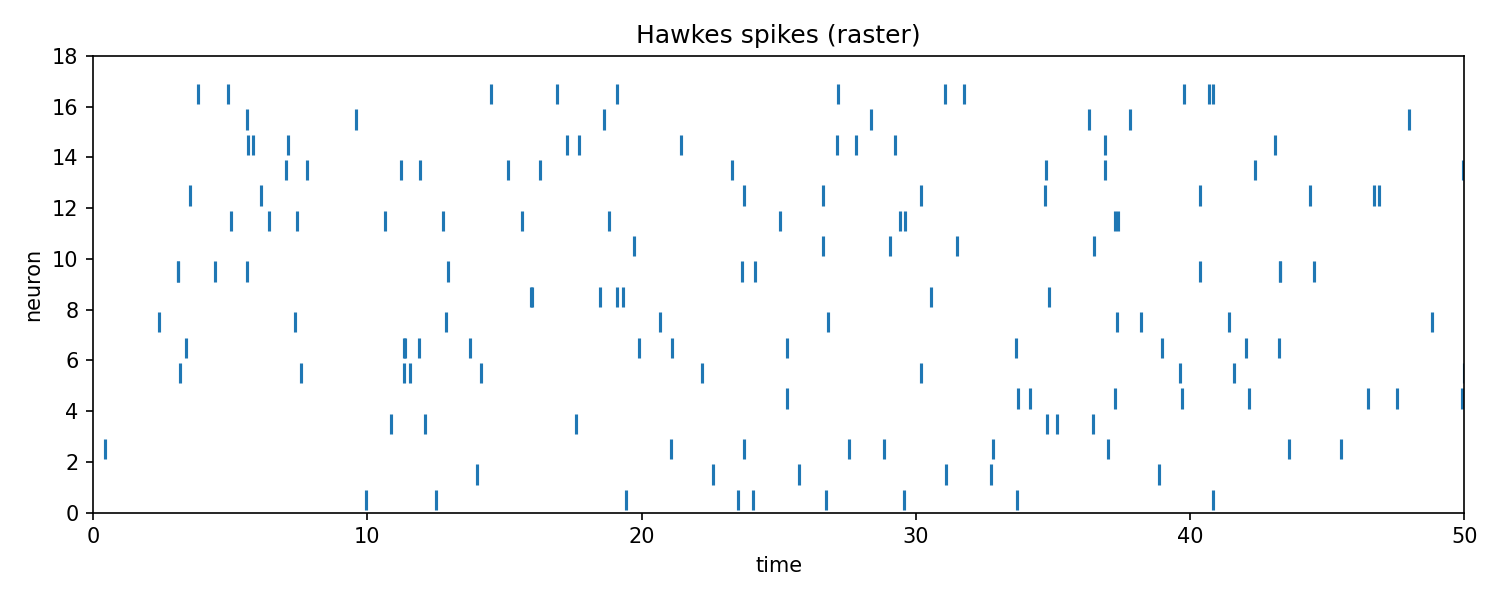
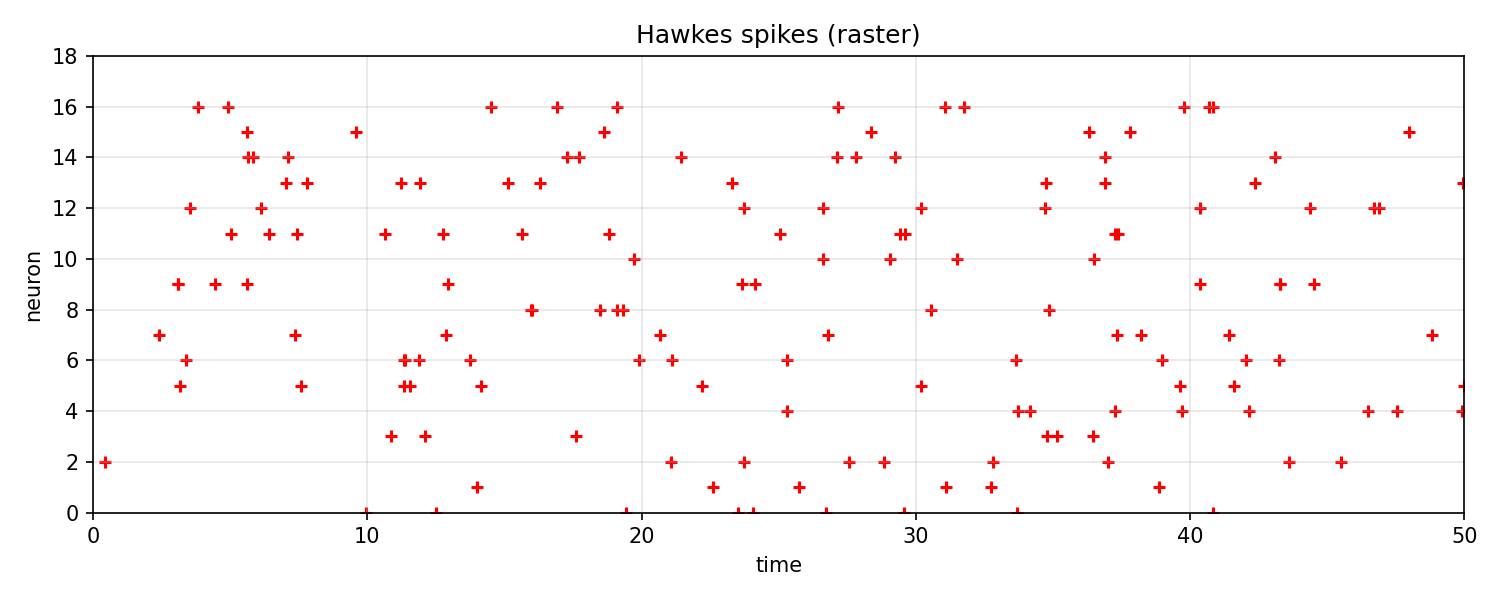
estimate synthetic data

diff --git a/plots.py b/plots.py
@@ -1,7 +1,7 @@
-
 import numpy as np
 import matplotlib.pyplot as plt
 from estimation import drift_model, sigma_model
+
 
 def plot_hawkes_raster(times, T, path):
     M = len(times)
@@ -9,50 +9,72 @@ def plot_hawkes_raster(times, T, path):
     for i, ti in enumerate(times):
         if len(ti) == 0:
             continue
-        plt.vlines(ti, i+0.1, i+0.9)
-    plt.ylim(0, M+1)
+
+        plt.scatter(ti, np.full(len(ti), i), marker="+", color="red")
+    plt.ylim(0, M + 1)
     plt.xlim(0, T)
     plt.xlabel("time")
+    plt.grid(alpha=0.3)
     plt.ylabel("neuron")
     plt.title("Hawkes spikes (raster)")
     plt.tight_layout()
     plt.savefig(path, dpi=150)
     plt.close()
 
+
 def plot_X(ts, X_true, X_hat, path):
     plt.figure(figsize=(10, 4))
-    plt.plot(ts, X_true, label="X(t) true")
-    plt.plot(ts, X_hat, label="X(t) reconstructed (estimated)", alpha=0.8)
+    plt.plot(ts, X_true, label="X(t) true", c="red")
+    plt.plot(ts, X_hat, label="X(t) reconstructed (estimated)", c="blue")
     plt.xlabel("time")
     plt.ylabel("X")
     plt.title("Jump-diffusion path: truth vs reconstructed")
+    plt.grid(alpha=0.3)
     plt.legend()
     plt.tight_layout()
     plt.savefig(path, dpi=150)
     plt.close()
 
-def plot_functions(drift_true_fn, sigma_true_fn, drift_theta, sigma_phi, xgrid, out_prefix):
+
+def plot_functions(
+    drift_true_fn, sigma_true_fn, drift_theta, sigma_phi, xgrid, out_prefix
+):
     plt.figure(figsize=(6, 4))
-    plt.plot(xgrid, drift_true_fn(xgrid), label="f (drift) true")
-    plt.plot(xgrid, drift_model(xgrid, drift_theta), label="f (drift) estimated", alpha=0.85)
+    plt.plot(xgrid, drift_true_fn(xgrid), label="f (drift) true", c="red", ls="--")
+    plt.plot(
+        xgrid,
+        drift_model(xgrid, drift_theta),
+        label="f (drift) estimated",
+        alpha=0.85,
+        c="blue",
+    )
     plt.xlabel("x")
     plt.ylabel("drift")
     plt.title("Drift function f(x)")
     plt.legend()
+    plt.grid(alpha=0.3)
     plt.tight_layout()
     plt.savefig(f"{out_prefix}_drift.png", dpi=150)
     plt.close()
 
     plt.figure(figsize=(6, 4))
-    plt.plot(xgrid, sigma_true_fn(xgrid), label="g (sigma) true")
-    plt.plot(xgrid, sigma_model(xgrid, sigma_phi), label="g (sigma) estimated", alpha=0.85)
+    plt.plot(xgrid, sigma_true_fn(xgrid), label="g (sigma) true", c="red", ls="--")
+    plt.plot(
+        xgrid,
+        sigma_model(xgrid, sigma_phi),
+        label="g (sigma) estimated",
+        alpha=0.85,
+        c="blue",
+    )
     plt.xlabel("x")
     plt.ylabel("sigma")
     plt.title("Diffusion function g(x)")
+    plt.grid(alpha=0.3)
     plt.legend()
     plt.tight_layout()
     plt.savefig(f"{out_prefix}_sigma.png", dpi=150)
     plt.close()
+
 
 def plot_jump_params(a0_true, a1_true, a0_hat, a1_hat, out_prefix):
     M = len(a0_true)
@@ -60,8 +82,8 @@ def plot_jump_params(a0_true, a1_true, a0_hat, a1_hat, out_prefix):
     width = 0.35
 
     plt.figure(figsize=(10, 4))
-    plt.bar(idx - width/2, a0_true, width, label="a0 true")
-    plt.bar(idx + width/2, a0_hat, width, label="a0 estimated", alpha=0.85)
+    plt.bar(idx - width / 2, a0_true, width, label="a0 true")
+    plt.bar(idx + width / 2, a0_hat, width, label="a0 estimated", alpha=0.85)
     plt.xlabel("neuron")
     plt.ylabel("a0")
     plt.title("Jump intercepts per neuron")
@@ -71,8 +93,8 @@ def plot_jump_params(a0_true, a1_true, a0_hat, a1_hat, out_prefix):
     plt.close()
 
     plt.figure(figsize=(10, 4))
-    plt.bar(idx - width/2, a1_true, width, label="a1 true")
-    plt.bar(idx + width/2, a1_hat, width, label="a1 estimated", alpha=0.85)
+    plt.bar(idx - width / 2, a1_true, width, label="a1 true")
+    plt.bar(idx + width / 2, a1_hat, width, label="a1 estimated", alpha=0.85)
     plt.xlabel("neuron")
     plt.ylabel("a1")
     plt.title("Jump tanh coefficients per neuron")
